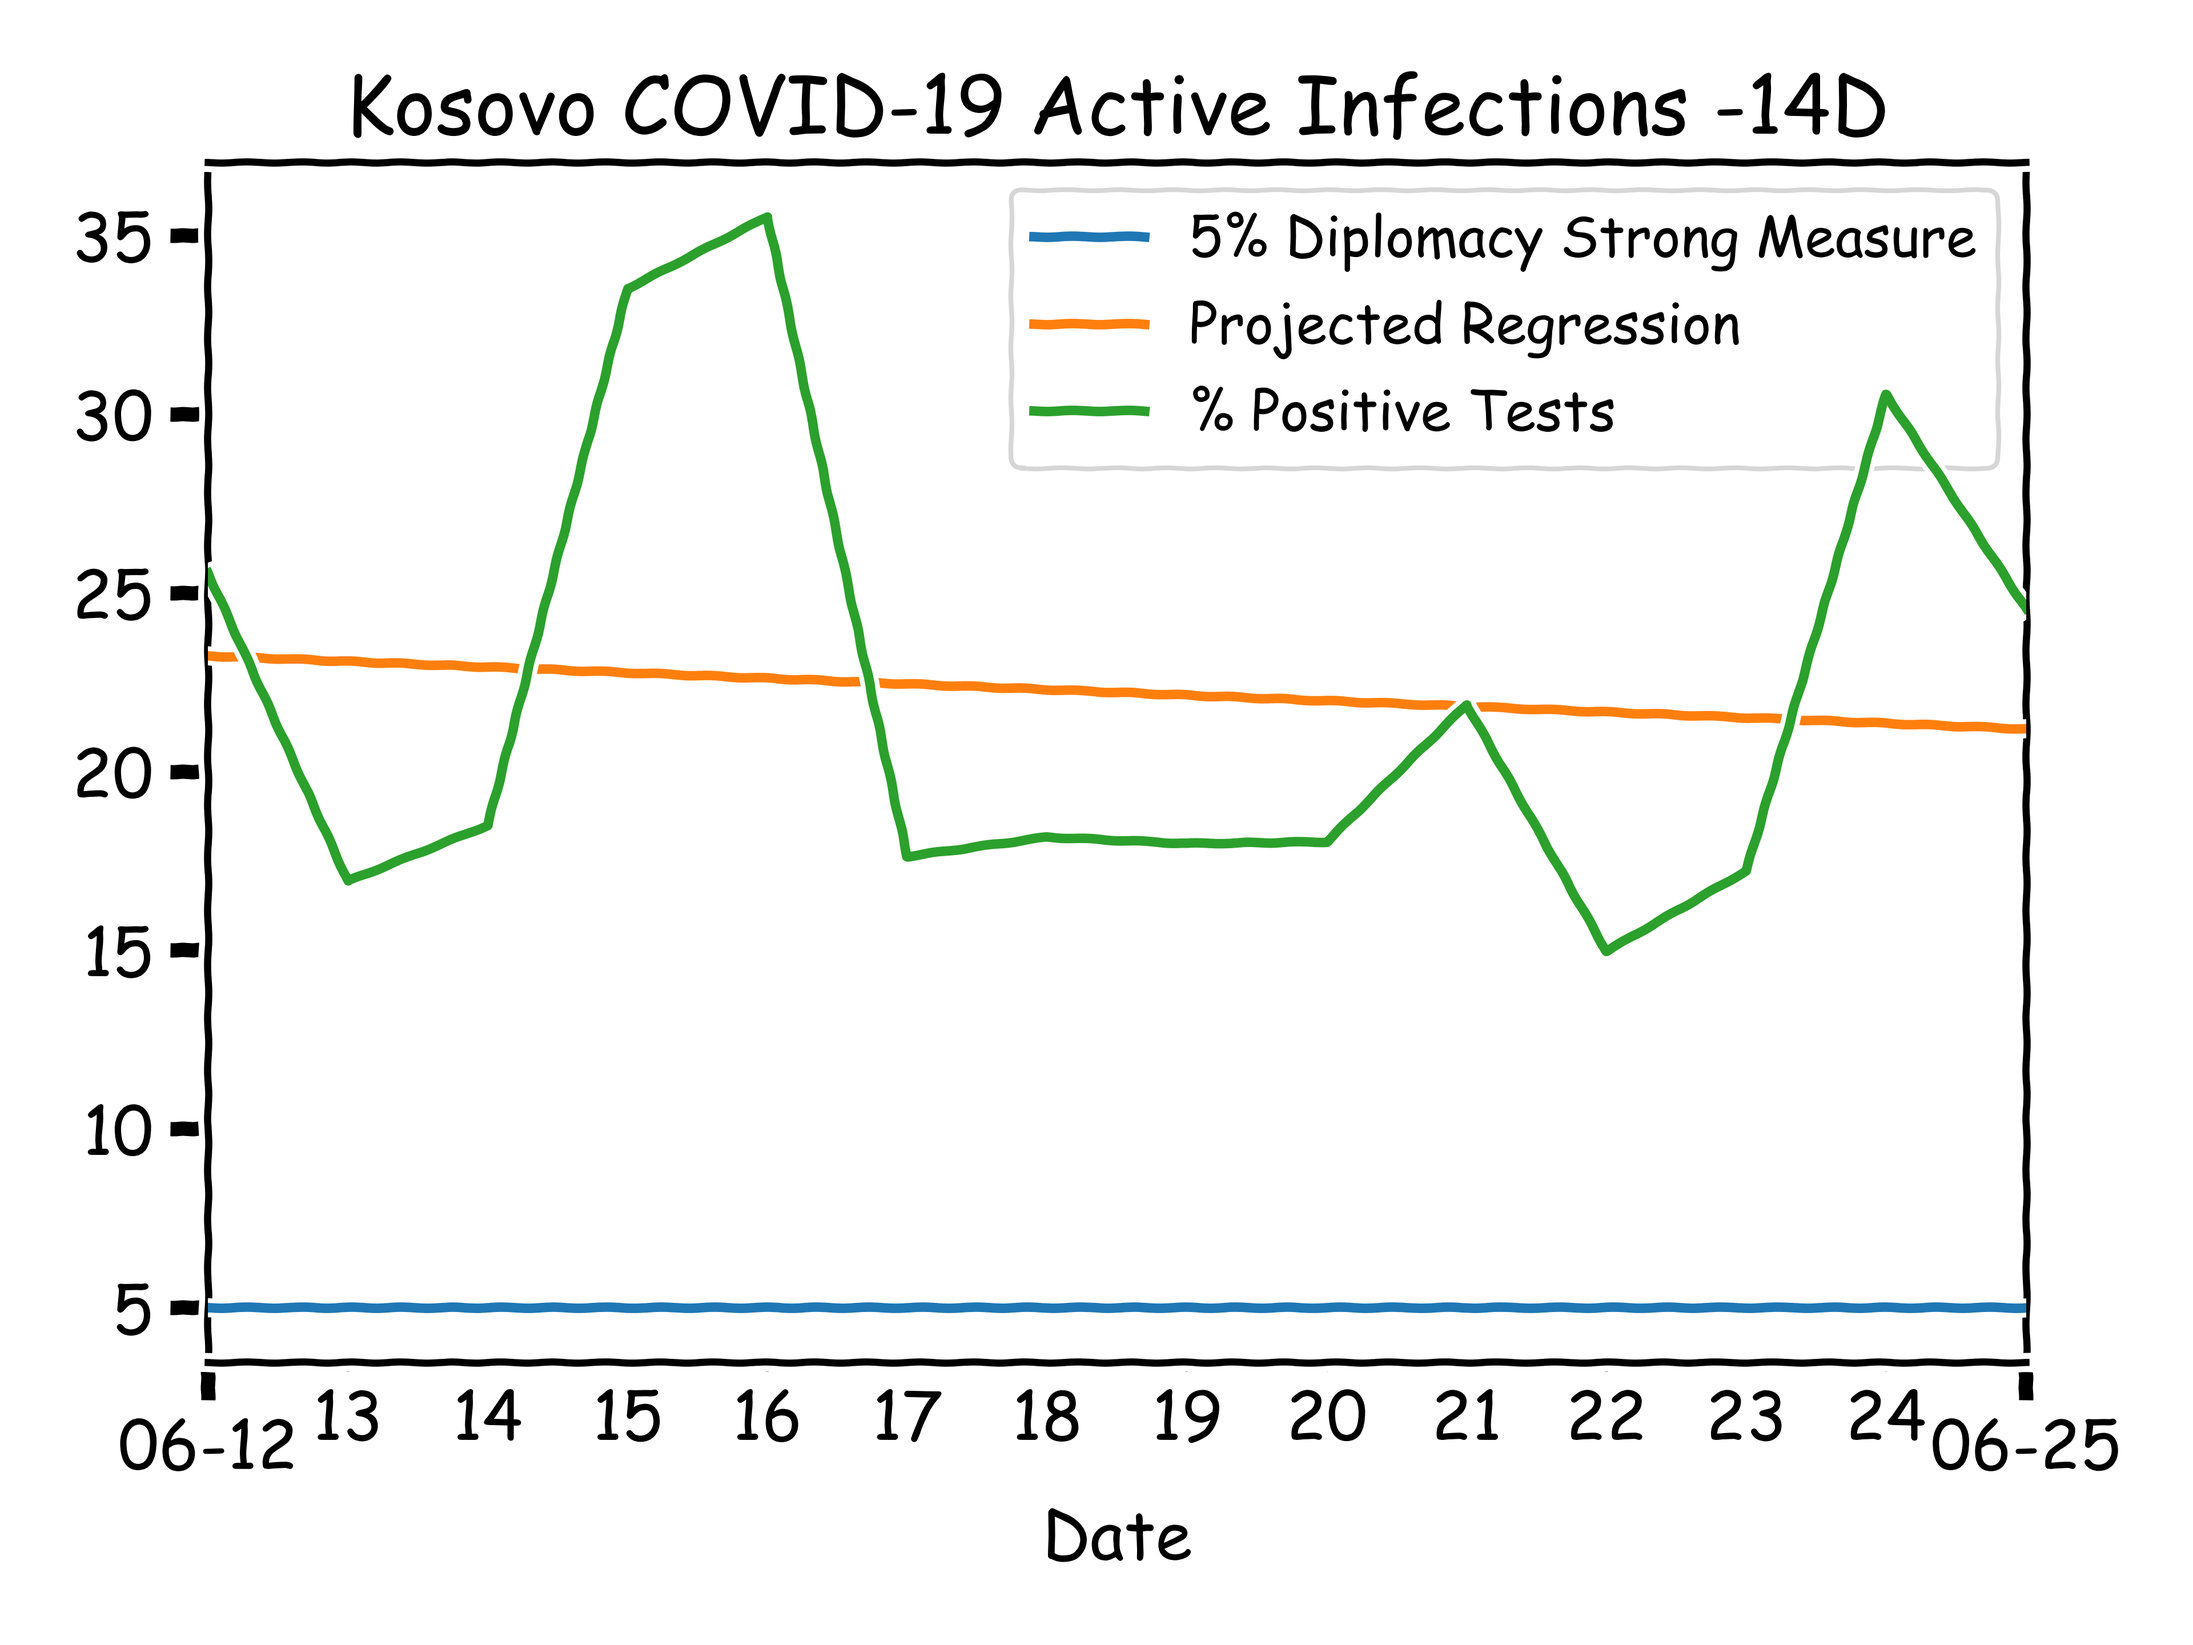
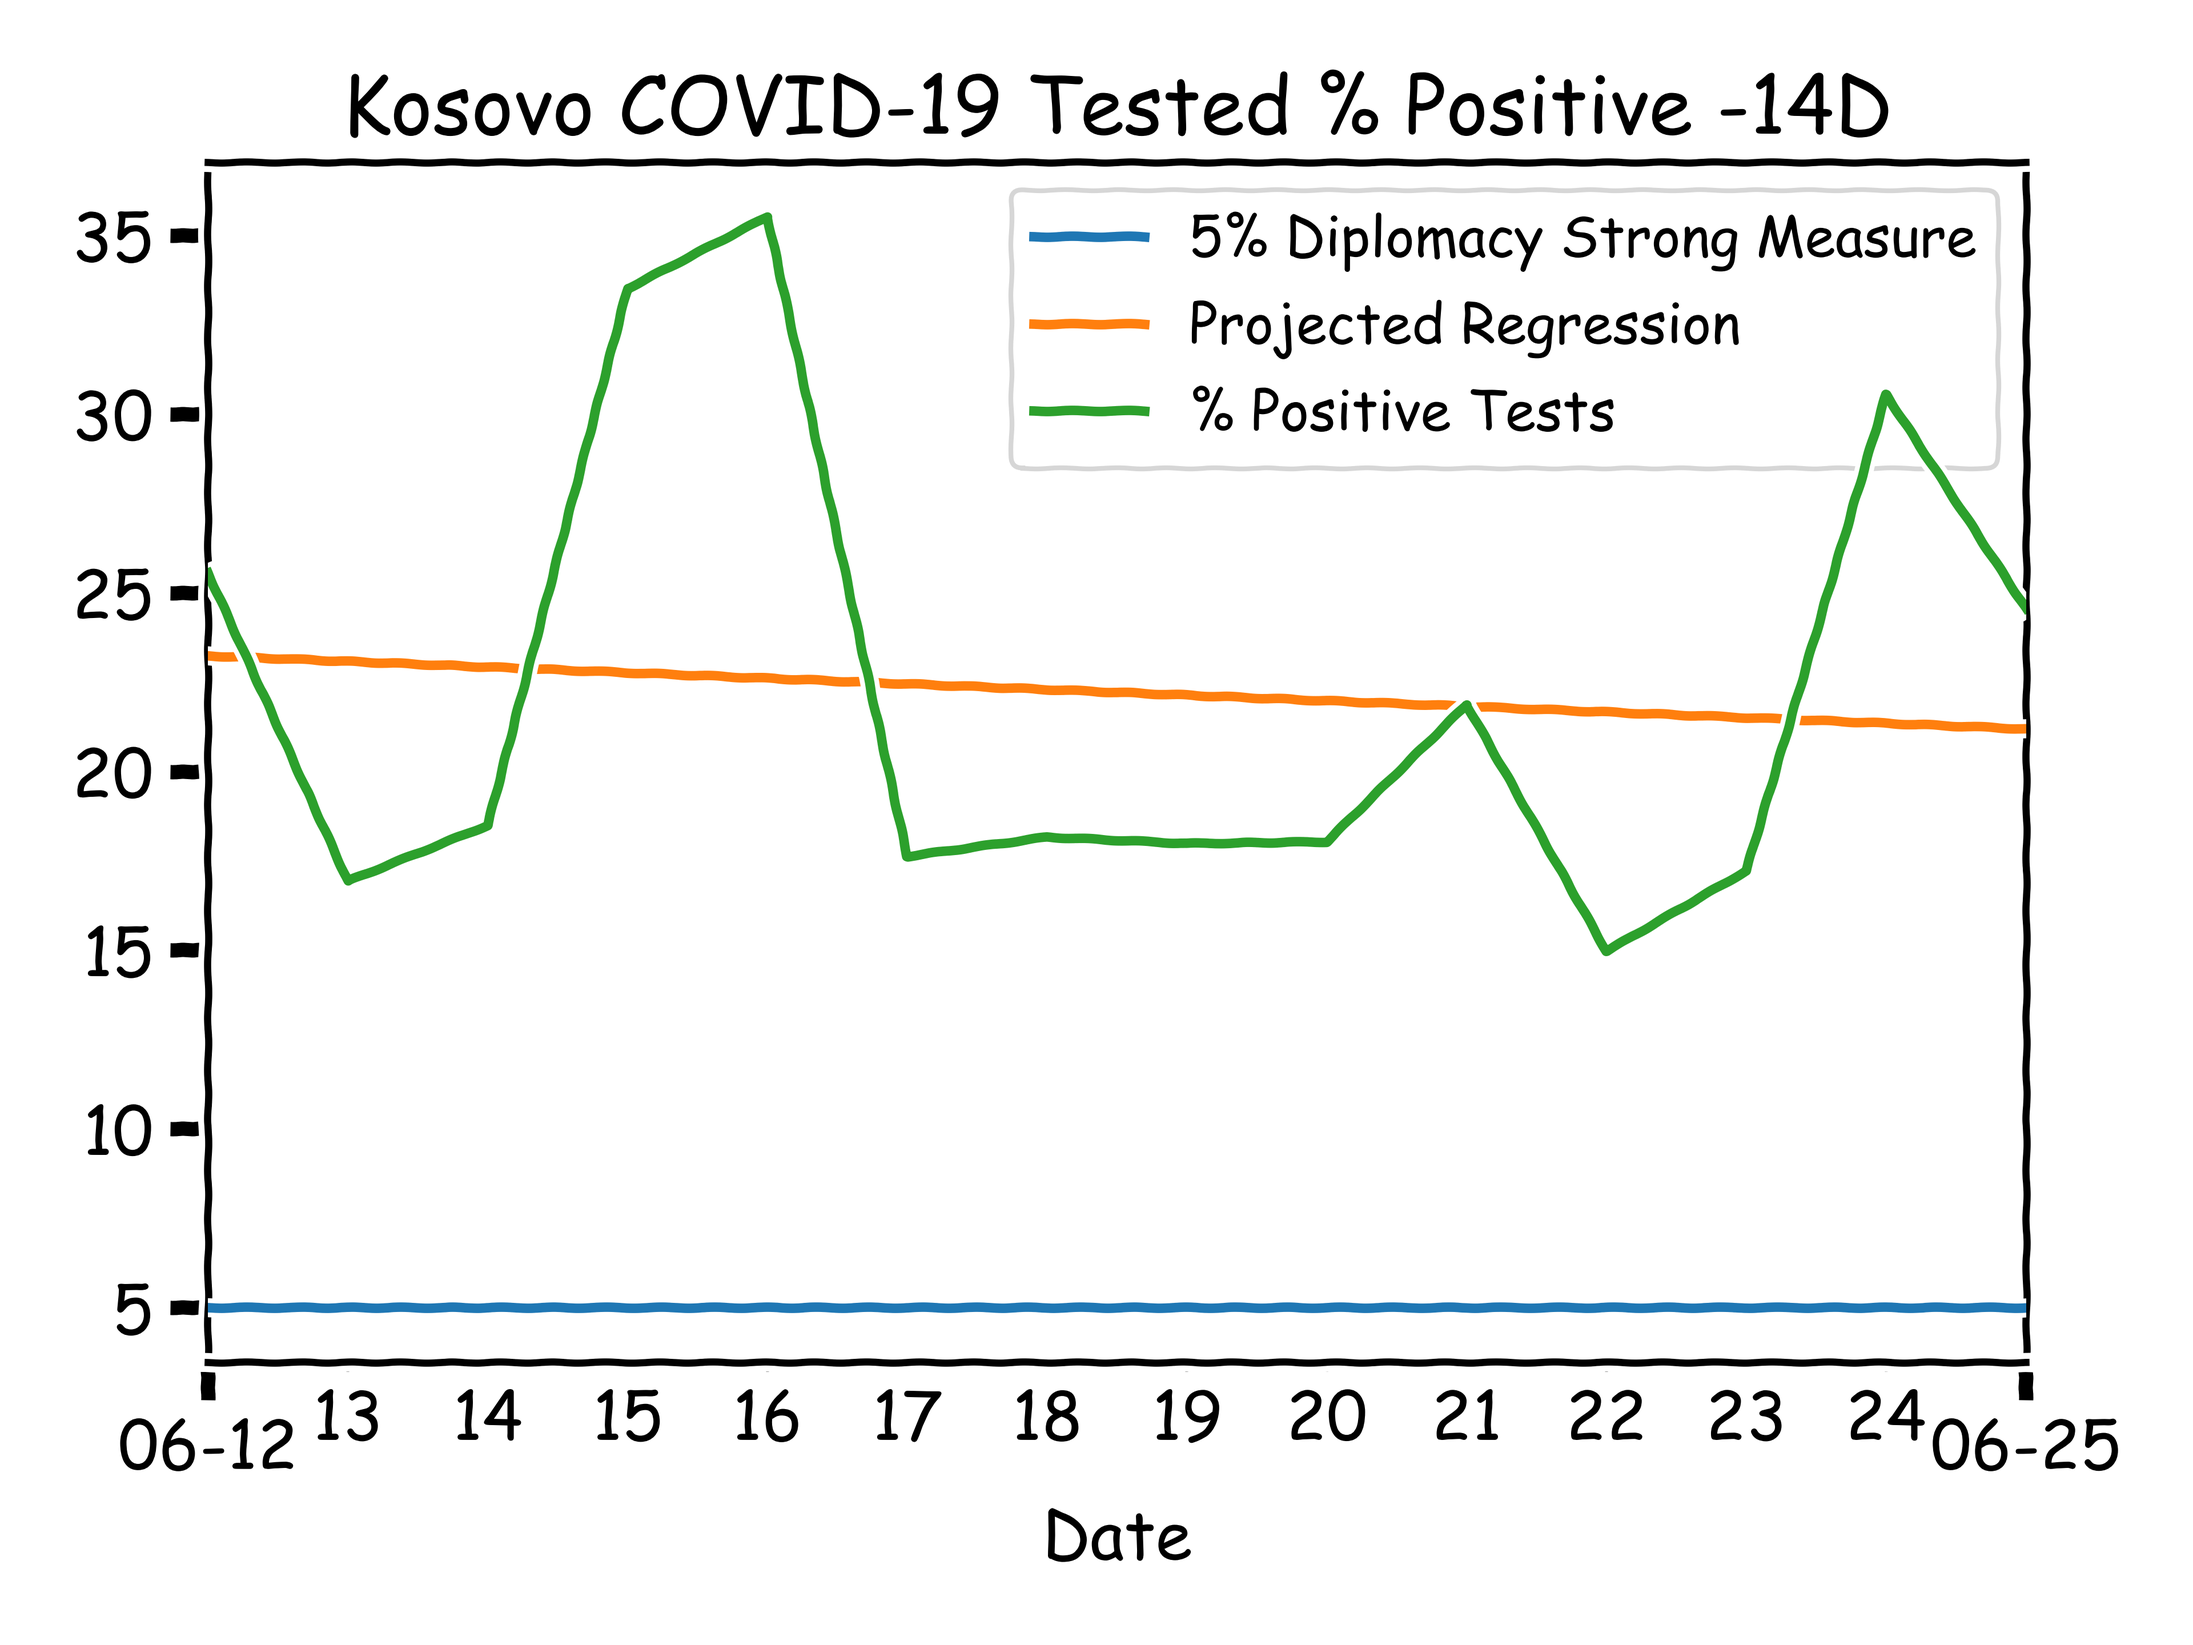
Daily push for 20200626

Changed region(s): [[0.4375, 0.0312, 0.7812, 0.0938], [0.1562, 0.0312, 0.4062, 0.0938], [0.8125, 0.0312, 0.8438, 0.0938]]

diff --git a/covid.py b/covid.py
@@ -77,7 +77,7 @@ with plt.xkcd():
     CPDelta_df = COVID_Raw[['Tested_Positive_Ratio']].last(TDays)
     CPDelta_df.insert(0, 'LinReg', Y_pred, True)
     CPDelta_df.insert(0, '5%_Dip_Strong', 5, True)
-    deltaFig = CPDelta_df.plot(title='Kosovo COVID-19 Active Infections -{0}'.format(TDays), zorder=10)
+    deltaFig = CPDelta_df.plot(title='Kosovo COVID-19 Tested % Positive -{0}'.format(TDays), zorder=10)
     deltaFig.xaxis.set_major_formatter(tickFormatter)
     deltaFig.legend(['5% Diplomacy Strong Measure', 'Projected Regression', '% Positive Tests'], fontsize='small')
     deltaFig.figure.tight_layout()
